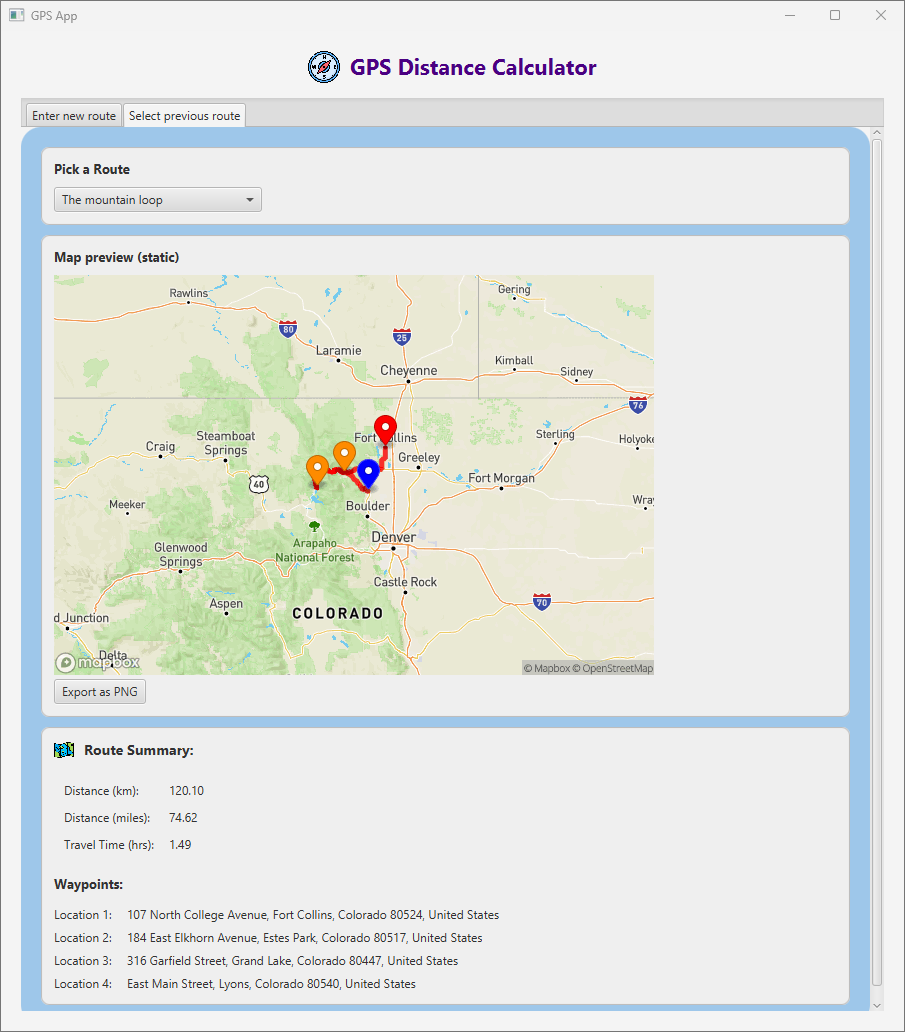
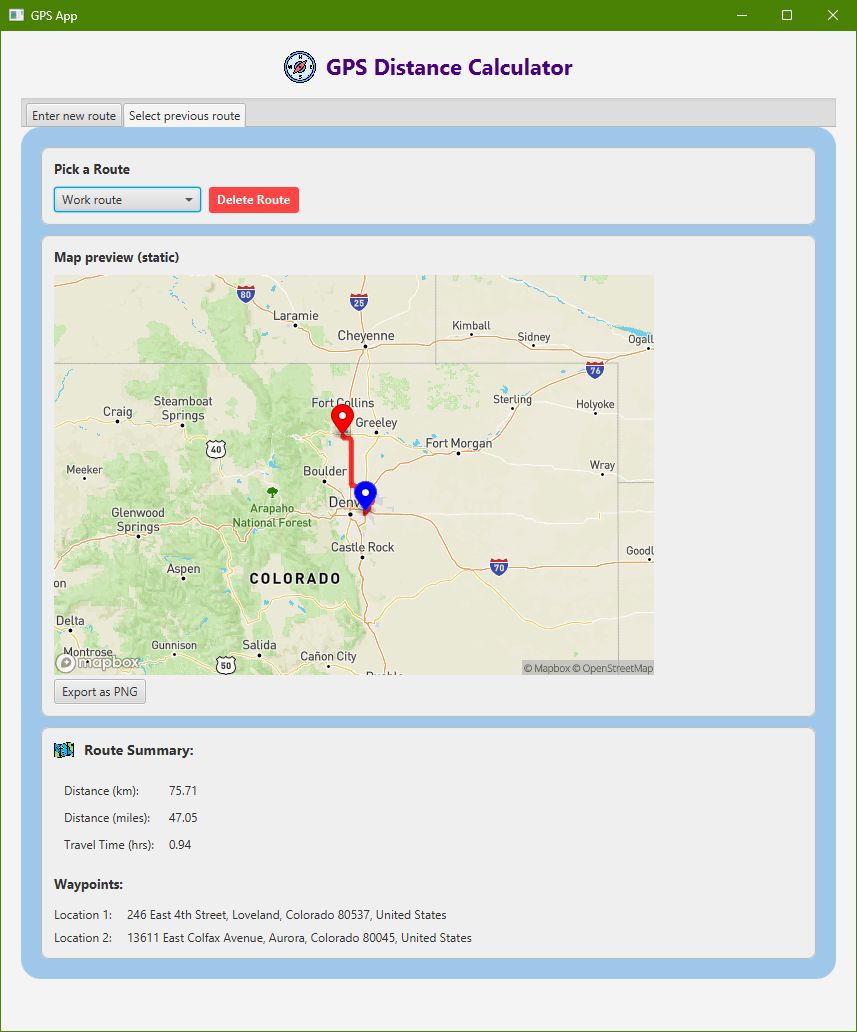
Update documentation for route management

diff --git a/CLAUDE.md b/CLAUDE.md
@@ -46,7 +46,7 @@ A template is at `src/main/resources/config.properties.example`.
 
 Single JavaFX class with two tabs:
 - **"Enter new route"** — card-based layout; location cards live in a `VBox waypointsContainer` backed by `List<LocationCard> locationCards` (initially Location 1 + Location 2); each `LocationCard` (private static inner class) holds address field, Search button, resolved label, lat/lon fields, and a styled `VBox card`; search handlers are wired via `wireSearchHandler(LocationCard, MapboxService)` (one shared method); **"+ Add Stop"** button appends a new `LocationCard("Location N", ...)` with a wired search handler to the list and container; **Route Options** card (name field, speed dropdown, full-width Calculate button); **Map Preview** card (map image + Export as PNG); output card (**Route Summary** + **Resolved Places**); on Calculate, all `locationCards` are iterated to collect coordinates, a `Task<RouteCalcResult>` runs N `reverseGeocode` calls and `getEncodedPolyline(List<Location>)` in the background, `RouteCalcResult(List<Location> locations, String polyline)` is the typed return record; `setOnSucceeded` builds `Route(List<Location>, speed, name)`, calls `buildStaticMapUrl(polyline, List<Location>, ...)`, rebuilds **Resolved Places** grid with N rows; zoom computed via `calculateZoomLevel(List<Location>)` (bounding-box diagonal)
-- **"Select previous route"** — card-based layout with three cards: **Pick a Route** (dropdown populated via `SQLiteRouteRepository.loadRoutes()`); **Map Preview** (map image + Export as PNG); **Route Summary** + **Waypoints** output card (distance, travel time, then a grid of all waypoint names populated when a route is selected); selecting a route calls `selected.getWaypoints()`, `getEncodedPolyline(List<Location>)`, `buildStaticMapUrl(polyline, List<Location>, ...)`, and `calculateZoomLevel(List<Location>)` on the FX thread
+- **"Select previous route"** — card-based layout with three cards: **Pick a Route** (dropdown populated via `SQLiteRouteRepository.loadRoutes()` + **Delete Route** button in the same row, disabled until a route is selected; clicking shows a confirmation dialog naming the selected route, then calls `repo.deleteRoute()`; if it returns `true`, refreshes the dropdown, clears the selection, summary grid, waypoints grid, and map image; if it returns `false`, shows a warning alert and leaves all UI state unchanged; `SQLException` routes to `showDbError()`); **Map Preview** (map image + Export as PNG); **Route Summary** + **Waypoints** output card (distance, travel time, then a grid of all waypoint names populated when a route is selected); selecting a route calls `selected.getWaypoints()`, `getEncodedPolyline(List<Location>)`, `buildStaticMapUrl(polyline, List<Location>, ...)`, and `calculateZoomLevel(List<Location>)` on the FX thread
 
 Both tabs have an **Export as PNG** button (`exportMapAsPng(Image, Window)` in `GpsAppGui`): opens a `FileChooser`, appends `.png` if the user omits it, shows a success dialog with the saved path, or an error dialog on failure.
 
@@ -94,15 +94,18 @@ Overall testable-core coverage: ~71% lines. Run `gradle test jacocoTestReport` t
 
 #### Intentionally untested
 
-- **`GpsAppGui`** — JavaFX; requires TestFX or a display; out of scope
+- **`GpsAppGui`** — JavaFX; requires TestFX or a display; out of scope. GUI behavior (including the Delete Route flow: button enable/disable, confirmation dialog, state clearing) is verified through manual smoke testing. Repository behavior underlying all GUI operations is covered by `SQLiteRouteRepositoryTest`.
 - **`MainCLI`** — interactive stdin loop; out of scope
 - **`MapboxService` HTTP methods** (`getEncodedPolyline`, `reverseGeocode`, `forwardGeocode`) — make live API calls; excluded to keep the suite fast and offline-capable
 
 #### Developer guidance
 
 - New features in `core/` must ship with appropriate automated tests.
+- GUI-only changes are verified through manual smoke testing rather than automated UI tests.
 - Run `gradle test` before every commit; a failing test suite blocks merges.
+- Perform a quick manual smoke test for any GUI changes before merging.
 - Run `gradle test jacocoTestReport` before releases to verify coverage has not regressed.
+- Update README.md and CLAUDE.md whenever new user-facing features are added.
 - Do not write tests solely to raise coverage percentages — only add tests that assert correct behavior or protect against real regression risk.
 - `MapboxService(String token)` and `AppPaths.resolvePath(String, String)` are package-private entry points for tests; do not make them public.
 

diff --git a/README.md b/README.md
@@ -20,6 +20,7 @@ A Java/JavaFX application that calculates distances along multi-waypoint routes,
    - Calculate uses all location cards in order; total distance is the sum across all legs
    - Live-updating map preview
    - Saved routes dropdown regenerates the map dynamically; waypoint names are listed in the output card
+   - Delete a saved route directly from the Previous Route tab; a confirmation dialog names the route before deletion
    - Route summary includes:
       - Distance (km & miles)
       - Travel time
@@ -28,20 +29,16 @@ A Java/JavaFX application that calculates distances along multi-waypoint routes,
    - After Calculate, reverse geocoding identifies canonical place names for all waypoints; results appear in a "Resolved Places" section
 
 - Route Persistence
-   - Saved to a SQLite database at `%LOCALAPPDATA%\GpsApp\routes.db` (created automatically on first run)
-   - GUI and CLI share the same database
+   - Saved to a local SQLite database at `%LOCALAPPDATA%\GpsApp\routes.db` (created automatically on first run)
+   - GUI and CLI share the same database file
    - All waypoints (not just start and end) stored with reverse-geocoded place names
-   - Overwrite/rename/duplicate detection (compares all waypoints)
-   - Loads instantly into the GUI on startup; multi-waypoint routes display correctly in the Previous Route tab
+   - Full CRUD: save, load, transactional overwrite, and delete
+   - Case-insensitive duplicate detection; prompts to overwrite or rename on name conflict
+   - Routes load instantly into the Previous Route tab on startup
 
 - CLI Mode
    - Fast terminal-based route calculation
    - Same distance + travel time logic as GUI
-
-- SQLite Route Persistence
-   - Routes saved to `%LOCALAPPDATA%\GpsApp\routes.db` (created automatically on first run)
-   - GUI and CLI share the same database file
-   - Full CRUD with case-insensitive duplicate detection and transactional overwrite
 
 - Automated Testing
    - 30 unit and integration tests across four test classes (JUnit 5)
@@ -158,7 +155,7 @@ build/reports/jacoco/test/html/index.html
 
 ### What is intentionally not covered
 
-- **JavaFX GUI** — requires a display and a framework such as TestFX; out of scope for this suite
+- **JavaFX GUI** — requires a display and a framework such as TestFX; out of scope for this suite. GUI-only changes (such as the Delete Route button) are verified through manual smoke testing. Repository behavior underlying all GUI operations is covered by `SQLiteRouteRepositoryTest`.
 - **Interactive CLI** — requires stdin simulation; out of scope
 - **Live Mapbox HTTP calls** — `getEncodedPolyline`, `reverseGeocode`, and `forwardGeocode` make real API calls that depend on a live token and network; excluded to keep the suite fast and offline-capable
 
